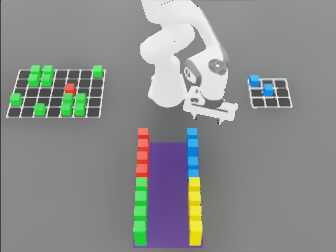
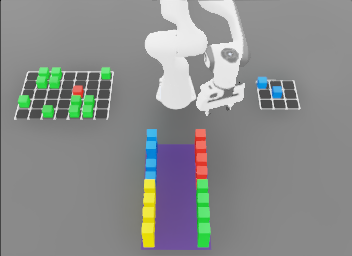
adapted camera setup

diff --git a/source/era_bench/era_bench/tasks/manager_based/arc_embodied/env/scene_cfg.py b/source/era_bench/era_bench/tasks/manager_based/arc_embodied/env/scene_cfg.py
@@ -79,19 +79,16 @@ class EraBenchSceneCfg(InteractiveSceneCfg):
     table_cam = TiledCameraCfg(
         prim_path="{ENV_REGEX_NS}/table_cam",
         update_period=0.0,
-        height=252,
-        width=336,
+        height=256,
+        width=352,
         data_types=["rgb", "distance_to_image_plane", "semantic_segmentation"],
         depth_clipping_behavior="max",
         semantic_filter=["class"],
         colorize_semantic_segmentation=True,
         semantic_segmentation_mapping=SEMANTIC_SEGMENTATION_MAPPING,
         spawn=sim_utils.PinholeCameraCfg(
-            focal_length=25.0, focus_distance=2.3, horizontal_aperture=18.43, clipping_range=(0.1, 5.0)
+            focal_length=25.0, focus_distance=2.3, horizontal_aperture=19.31, clipping_range=(0.1, 5.0)
         ),
-        # offset=TiledCameraCfg.OffsetCfg(
-        #     pos=(1.8, 0.0, 0.7), rot=(0.35355, -0.61237, -0.61237, 0.35355), convention="ros"
-        # ),
         offset=TiledCameraCfg.OffsetCfg(
             pos=(1.43, 0.0, 1.6), rot=(0.23021145, -0.66858260, -0.66858260, 0.23021145), convention="ros"
         ),
@@ -100,13 +97,19 @@ class EraBenchSceneCfg(InteractiveSceneCfg):
     origin_top_cam = TiledCameraCfg(
         prim_path="{ENV_REGEX_NS}/origin_top_cam",
         update_period=0.0,
-        height=280,
-        width=280,
+        # Favor horizontal detail while keeping both dimensions aligned to 32-pixel model patches.
+        height=256,
+        width=352,
         data_types=["rgb"],
         spawn=sim_utils.PinholeCameraCfg(
-            focal_length=25.294922600, focus_distance=2.4, horizontal_aperture=20.955, clipping_range=(0.1, 5.0)
+            focal_length=25.294922600, focus_distance=1.9, horizontal_aperture=20.955, clipping_range=(0.1, 5.0)
         ),
-        offset=TiledCameraCfg.OffsetCfg(pos=(0.2, 0.0, 2.4), rot=(0.0, 0.70711, 0.70711, 0.0), convention="ros"),
+        offset=TiledCameraCfg.OffsetCfg(
+            # Prioritize complete grids; extreme gripper poses may leave the cropped vertical field of view.
+            pos=(0.25, 0.0, 1.9),
+            rot=(0.0, 0.70711, 0.70711, 0.0),
+            convention="ros",
+        ),
     )
 
     # end-effector sensor: will be populated by agent env cfg

diff --git a/source/era_bench/era_bench/tasks/manager_based/common/recorders.py b/source/era_bench/era_bench/tasks/manager_based/common/recorders.py
@@ -124,10 +124,10 @@ class EpisodeVideoRecorder(RecorderTerm):
 
             # encode MP4 into an in-memory buffer
             buf = io.BytesIO()
-            # Use the required 28-pixel macroblock size. Camera dimensions such
-            # as 336x252 are already divisible by 28, so no padding is applied.
+            # Match Qwen3-VL's 32-pixel spatial factor. Camera dimensions such
+            # as 352x256 are already divisible by 32, so no padding is applied.
             writer = imageio.get_writer(
-                buf, format="mp4", fps=self._fps, codec="libx264", quality=8, macro_block_size=28
+                buf, format="mp4", fps=self._fps, codec="libx264", quality=8, macro_block_size=32
             )
             for frame in frames_np:
                 writer.append_data(frame)

diff --git a/scripts/dataset/create_videos.py b/scripts/dataset/create_videos.py
@@ -124,7 +124,7 @@ def _write_video(frames: np.ndarray, output_path: Path, fps: int) -> None:
             fps=fps,
             codec="libx264",
             quality=8,
-            macro_block_size=28,
+            macro_block_size=32,
         )
         try:
             for frame in frames:

diff --git a/source/era_bench/docs/architecture/arc_embodied_scene_setup.md b/source/era_bench/docs/architecture/arc_embodied_scene_setup.md
@@ -31,8 +31,8 @@ These are final RGB camera samples from a current recorded task:
 
 - ARC task: `3b4c2228`
 - Raw task-pair index: `3`
-- Recorded action/state samples: `300`
-- Shown camera index: `300`, the forced terminal sample after the last control
+- Recorded action/state samples: `316`
+- Shown camera index: `316`, the forced terminal sample after the last control
   step
 
 The pair has a `5 × 7` input grid and a `3 × 3` output grid. Its completed
@@ -40,8 +40,8 @@ output consists of two blue cubes, both visible to the right of the robot.
 
 | Perspective camera — `table_cam` | Top-down camera — `origin_top_cam` |
 |---|---|
-| ![Final perspective frame from demo 52](assets/demo_52_final_table_cam.png) | ![Final top-down frame from demo 52](assets/demo_52_final_origin_top_cam.png) |
-| `336 × 252` RGB | `280 × 280` RGB |
+| ![Final perspective frame for task 3b4c2228 pair 3](assets/demo_52_final_table_cam.png) | ![Final top-down frame for task 3b4c2228 pair 3](assets/demo_52_final_origin_top_cam.png) |
+| `352 × 256` RGB | `352 × 256` RGB |
 
 ## Assigned physical areas
 
@@ -90,8 +90,8 @@ reserve background, and grid lines.
 
 | Camera | Pose | Resolution | Recorded data |
 |---|---|---:|---|
-| `table_cam` | Fixed perspective camera at `(1.43, 0.00, 1.60) m` | `336 × 252` | RGB, image-plane depth, colorized semantic segmentation |
-| `origin_top_cam` | Fixed downward camera at `(0.20, 0.00, 2.40) m` | `280 × 280` | RGB |
+| `table_cam` | Fixed perspective camera at `(1.43, 0.00, 1.60) m` | `352 × 256` | RGB, image-plane depth, colorized semantic segmentation |
+| `origin_top_cam` | Fixed downward camera at `(0.25, 0.00, 1.90) m` | `352 × 256` | RGB |
 | `wrist_cam` | Attached to the Panda hand at local offset `(0.13, 0.00, -0.15) m` | `112 × 112` | RGB, image-plane depth, colorized semantic segmentation |
 
 Fixed-camera poses are local to each environment origin; the wrist pose is
@@ -99,6 +99,18 @@ relative to `panda_hand`. All cameras use `update_period=0.0` and therefore
 update when the simulation renders. The scene overview uses the two fixed
 cameras. The wrist camera is an auxiliary robot-centric sensor and is not part
 of the paired overview above.
+
+The `table_cam` uses a frame whose dimensions are both
+multiples of 32. Its width and horizontal aperture were increased together from
+`336 px` and `18.43 mm` to `352 px` and `19.31 mm`. This widens the horizontal
+framing while keeping the effective focal length effectively constant at about
+`455.7 px`, so projected cube detail is preserved.
+
+The `origin_top_cam` uses a patch-aligned wide frame: both dimensions are
+multiples of 32, and the vertical crop reallocates pixels to horizontal grid
+detail. Its framing prioritizes complete input and output grids; the gripper may
+be partially outside this overview in extreme poses. Fine manipulation remains
+available through `table_cam` and `wrist_cam`.
 
 ## Layout diagram
 
